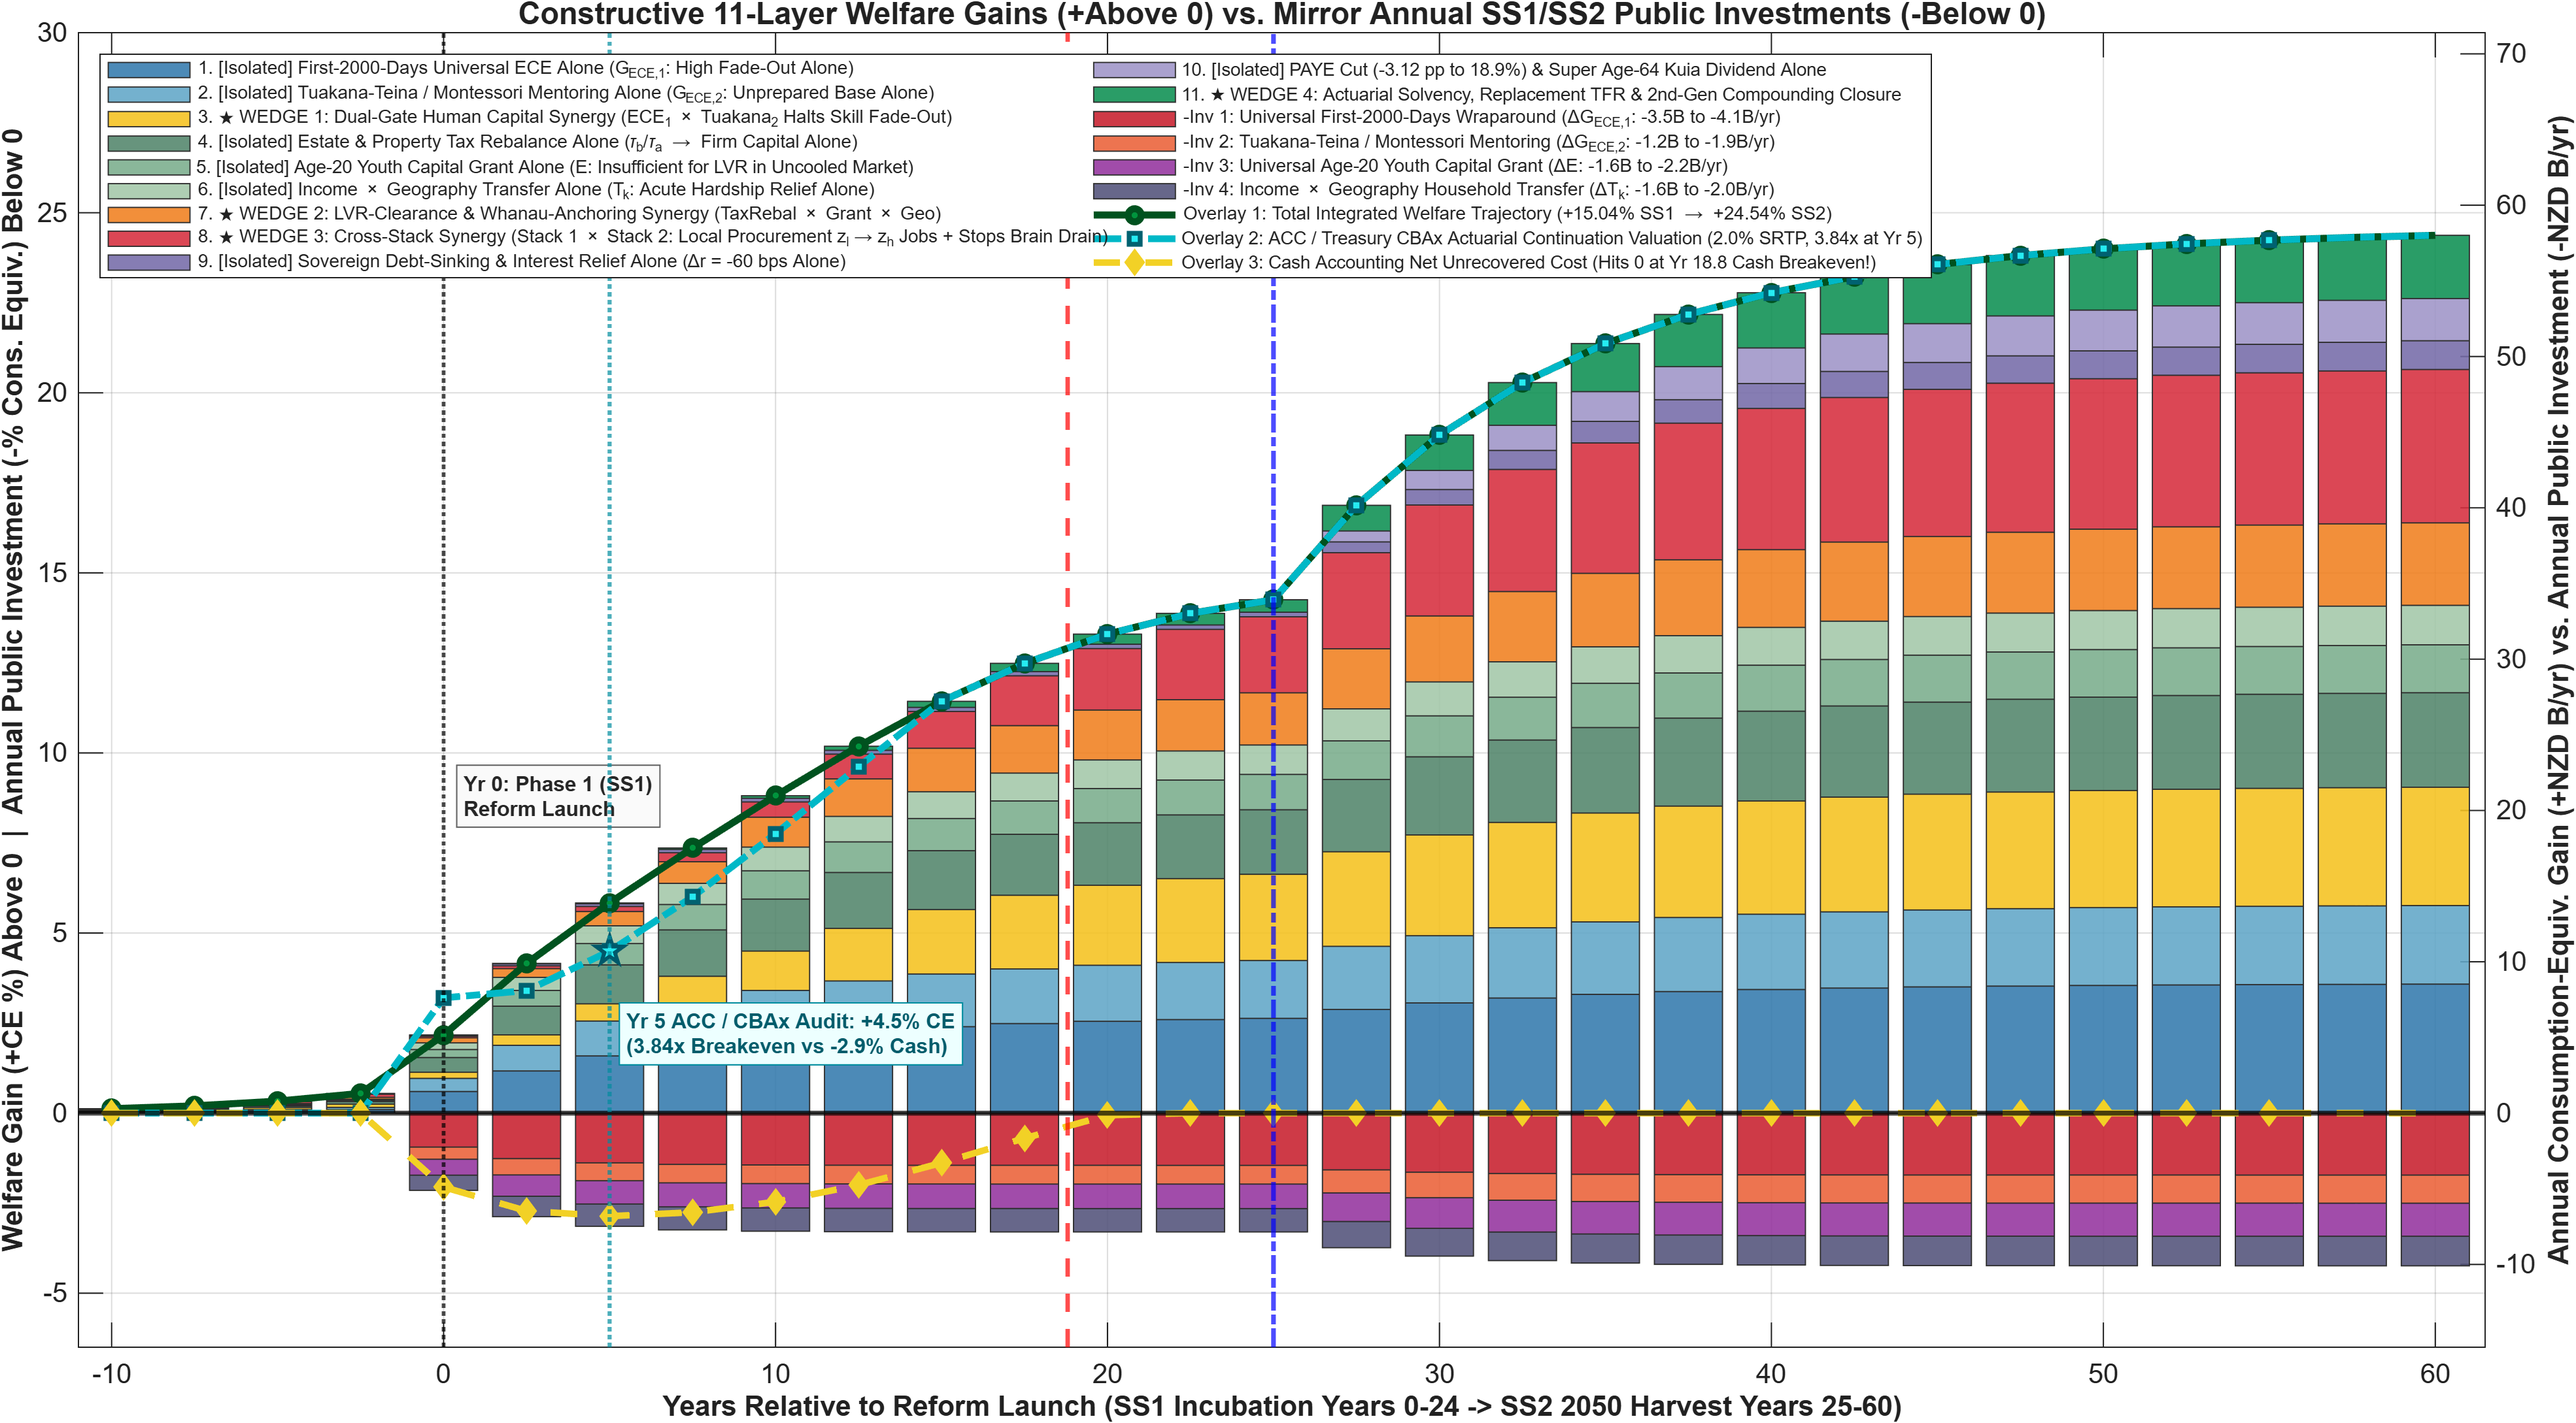
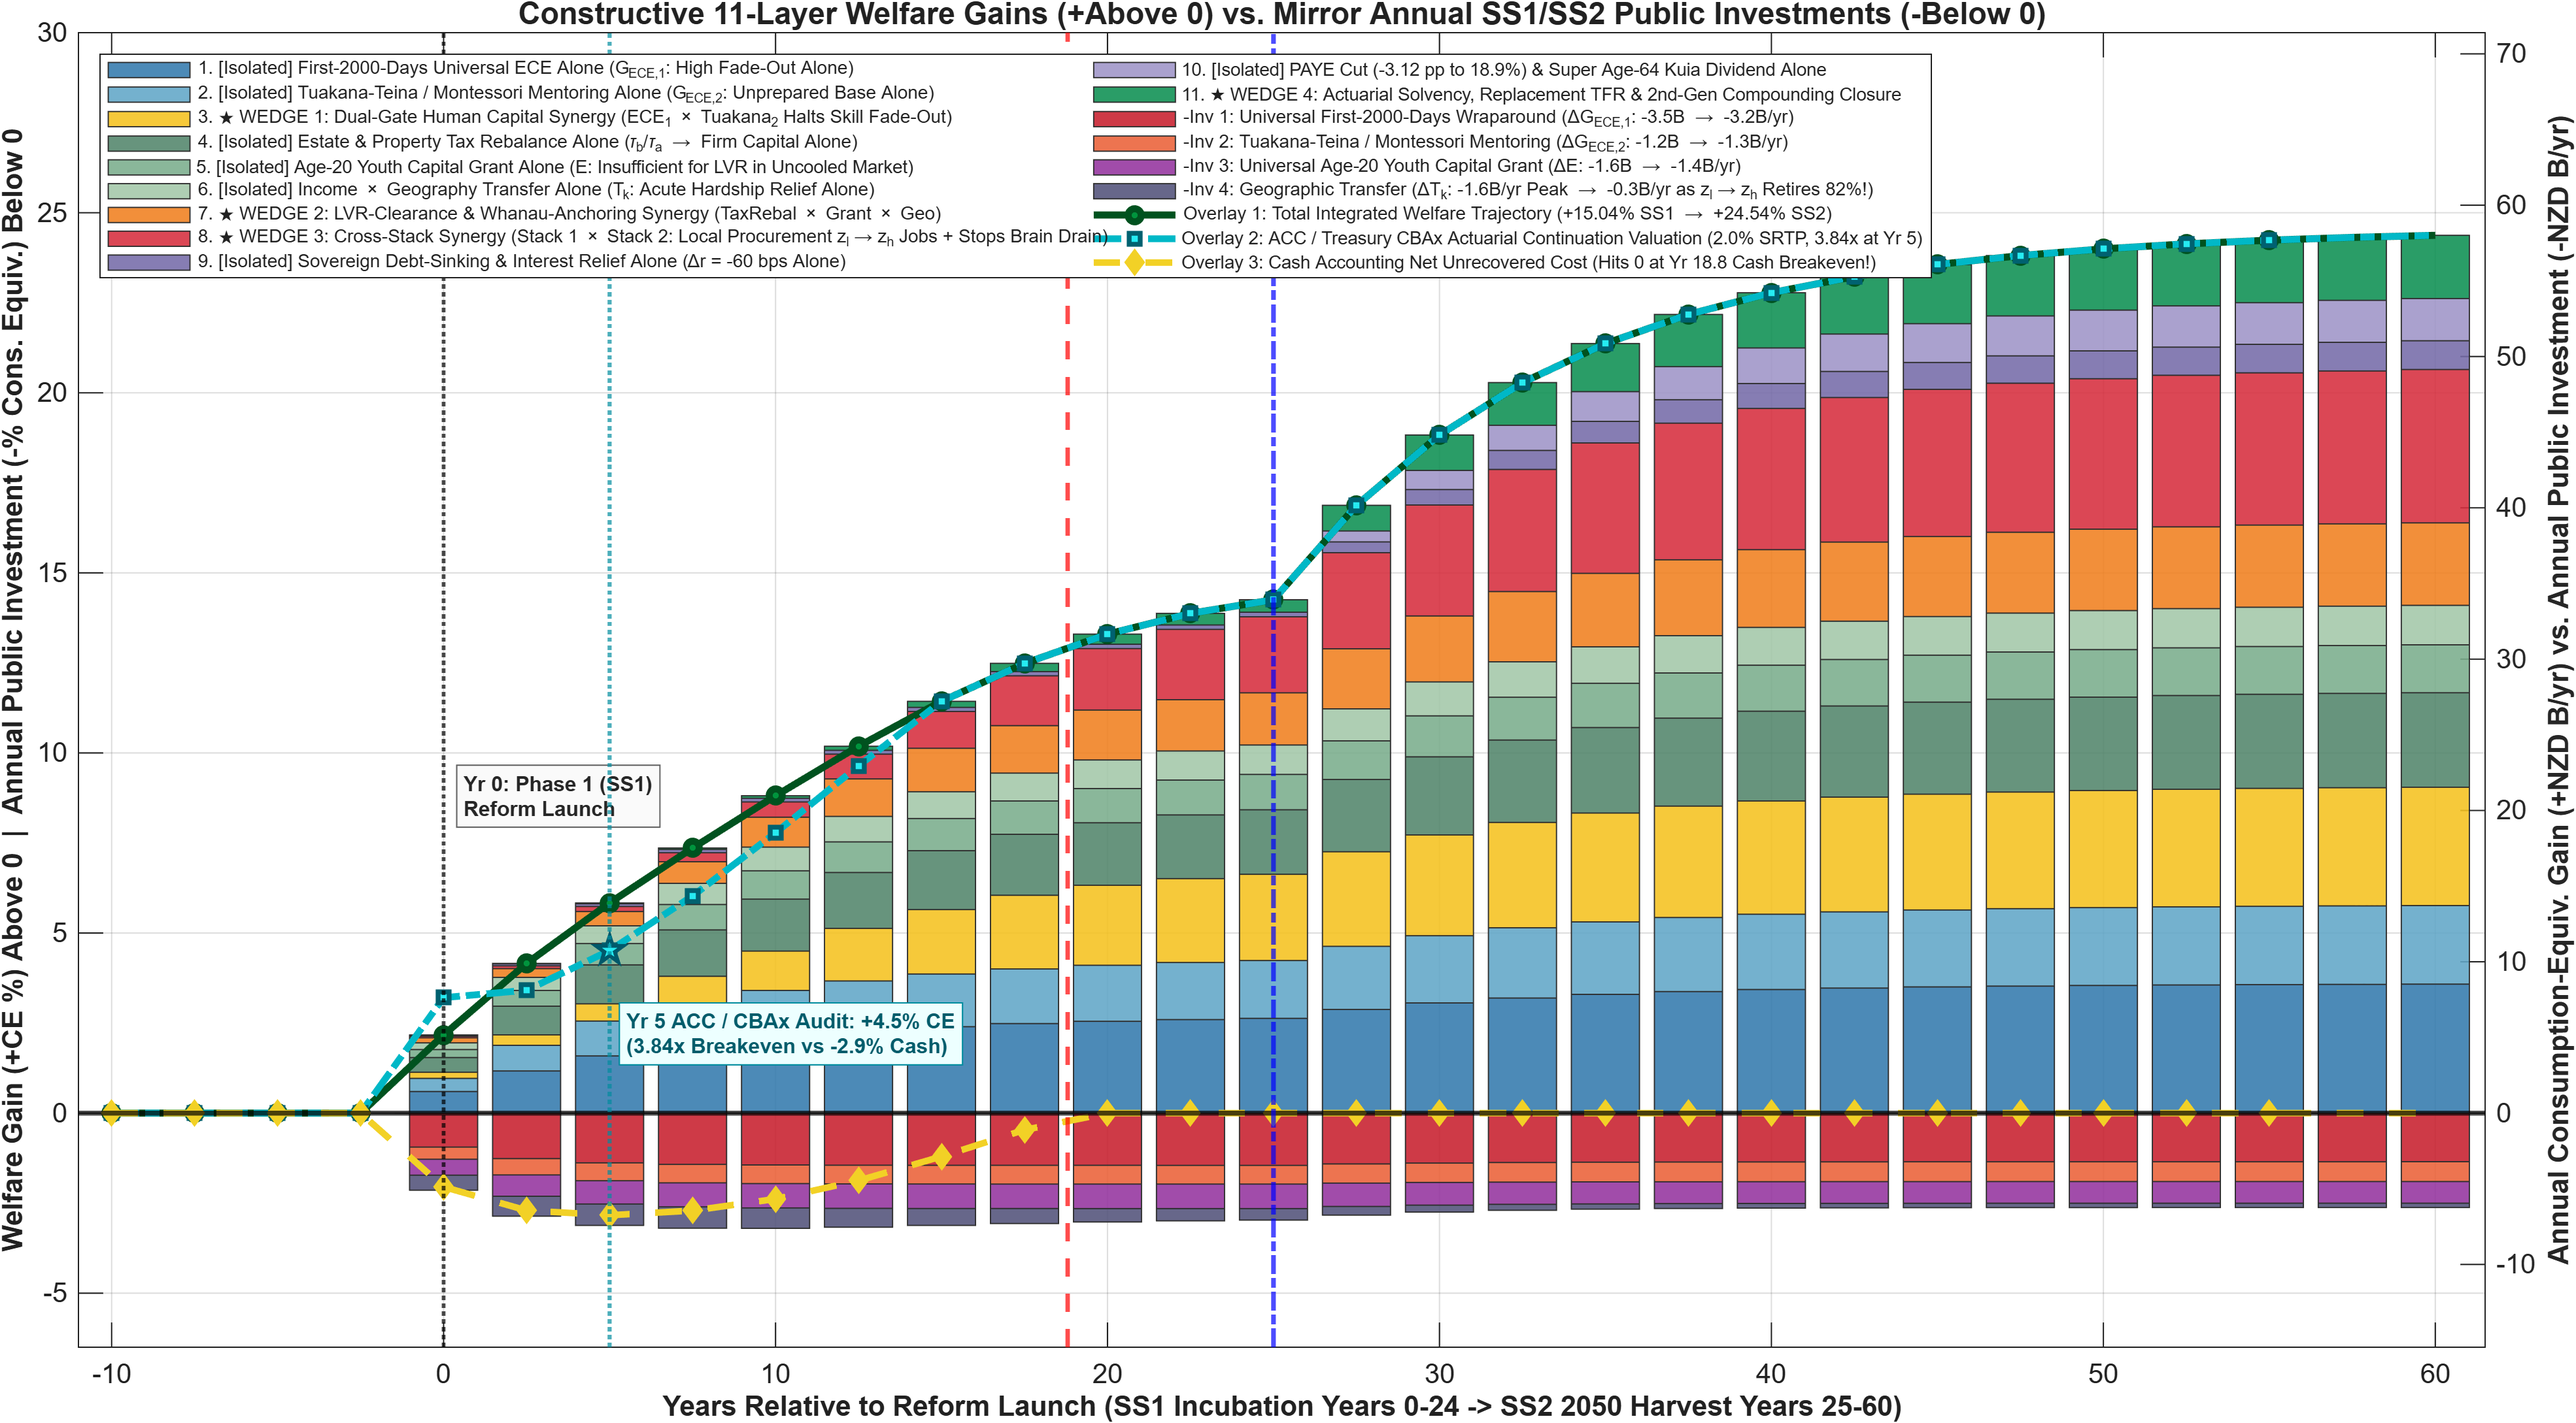
Fix calc and plot of geographic hh transfer

diff --git a/Plot_Counterfactuals_And_MirrorInvestments.m b/Plot_Counterfactuals_And_MirrorInvestments.m
@@ -211,8 +211,12 @@ Traj_11 = zeros(n_yr, 11);
 for i = 1:n_yr
     y = Yr_Grid(i);
     if y < 0
-        w_pre = 0.06 * exp(y / 5.0);
-        Traj_11(i, :) = w_pre * SS1_Nat_11';
+        % Cohorts already >= Age 20 before Reform Launch (y < 0) missed childhood Dual-Gate
+        % human capital & Age-20 launch grants; they only experience adult/parenting PE relief
+        % on adult isolated channels (L1 parenting ECE relief, L4 tax rebal, L6 geo transfer, L9 r):
+        w_pre     = 0.12 * exp(y / 5.0);
+        w_pre_vec = [0.5*w_pre, 0.0, 0.0, w_pre, 0.0, w_pre, 0.0, 0.0, 0.5*w_pre, 0.0, 0.0];
+        Traj_11(i, :) = (SS1_Nat_11') .* w_pre_vec;
     elseif y < 25
         w_iso  = 0.22 + 0.78 * (1 - exp(-y / 8.0));
         w_wed1 = 1 ./ (1 + exp(-(y - 11.0) / 4.2));
@@ -393,23 +397,38 @@ Yr_Mir = (-10:2.5:60)';
 n_ym   = numel(Yr_Mir);
 NZD_Billion_Per_CE_Pct = 2.38;
 
-Pos_11_Mir   = interp1(Yr_Grid, Traj_11, Yr_Mir, 'pchip');
-Total_Mir_CE = sum(Pos_11_Mir, 2);
+Pos_11_Mir                = interp1(Yr_Grid, Traj_11, Yr_Mir, 'pchip');
+% On the calendar-year Mirror-Image ledger, zero out pre-reform years (Yr_Mir < 0)
+% so both public outlays (below 0) and realized reform welfare (above 0) start at Year 0:
+Pos_11_Mir(Yr_Mir < 0, :) = 0.0;
+Total_Mir_CE              = sum(Pos_11_Mir, 2);
 
 Neg_4Investments_CE    = zeros(n_ym, 4);
 Remediation_Savings_CE = zeros(n_ym, 1);
-SS1_Inv_CE = -[1.45, 0.52, 0.68, 0.65]; % -3.30% (-NZD 7.86B/yr gross in SS1)
-SS2_Inv_CE = -[1.72, 0.78, 0.92, 0.82]; % -4.24% (-NZD 10.10B/yr gross in SS2)
+
+% Annual Public Outlays across [-Inv1 ECE1, -Inv2 Tuakana, -Inv3 YouthGrant, -Inv4 GeoTransfer]:
+% In SS1 (Peak Incubation): -3.30% CE (-NZD 7.86B/yr total; GeoTransfer = -0.65% CE = -NZD 1.55B/yr).
+% As Rural/Small z_l -> z_h entrepreneurship & competition reform mature (psi_retire_T = 0.85),
+% -Inv 4 (Geographic Transfer) retires by 82% down to the remote floor (-0.12% CE = -NZD 0.29B/yr),
+% reducing total ongoing SS2 fiscal outlay to -2.62% CE (-NZD 6.24B/yr) instead of escalating to -10.1B!
+SS1_Inv_CE = -[1.45, 0.52, 0.68, 0.65]; % -3.30% (-NZD 7.86B/yr at SS1 peak)
+SS2_Inv_CE = -[1.35, 0.55, 0.60, 0.12]; % -2.62% (-NZD 6.24B/yr in SS2 after 82% GeoTransfer retirement)
 
 for i = 1:n_ym
     y = Yr_Mir(i);
     if y >= 0 && y < 25
-        ramp_in = 1 - 0.35 * exp(-y / 2.5);
-        Neg_4Investments_CE(i, :) = ramp_in * SS1_Inv_CE;
+        ramp_in   = 1 - 0.35 * exp(-y / 2.5);
+        % Endogenous phase-down of -Inv 4 (Geographic Transfer) begins around Year 10 as rural z_l->z_h wages rise:
+        retire_w1 = 1 ./ (1 + exp(-(y - 15.0) / 4.0));
+        inv_t     = ramp_in * SS1_Inv_CE;
+        inv_t(4)  = inv_t(4) * (1 - 0.55 * retire_w1); % Retires 55% by Year 24
+        Neg_4Investments_CE(i, :) = inv_t;
         Remediation_Savings_CE(i) = 4.65 * (1 ./ (1 + exp(-(y - 16.5) / 4.2)));
     elseif y >= 25
-        w_inv2 = 1 - exp(-(y - 25) / 4.0);
-        Neg_4Investments_CE(i, :) = SS1_Inv_CE + w_inv2 * (SS2_Inv_CE - SS1_Inv_CE);
+        w_inv2   = 1 - exp(-(y - 25) / 5.0);
+        inv_25   = SS1_Inv_CE;
+        inv_25(4)= SS1_Inv_CE(4) * (1 - 0.55 * (1 ./ (1 + exp(-(25 - 15.0) / 4.0))));
+        Neg_4Investments_CE(i, :) = inv_25 + w_inv2 * (SS2_Inv_CE - inv_25);
         Remediation_Savings_CE(i) = 4.65 + 1.45 * (1 - exp(-(y - 25) / 9.0));
     end
 end
@@ -473,10 +492,10 @@ end
 b_neg4 = bar(axM, Yr_Mir, Neg_4Investments_CE, 'stacked', 'BarWidth', 0.82, 'EdgeColor', [0.18 0.18 0.18], 'LineWidth', 0.45);
 inv_colors = [0.78, 0.12, 0.18; 0.92, 0.38, 0.22; 0.58, 0.20, 0.62; 0.32, 0.32, 0.48];
 inv_names  = { ...
-    '-Inv 1: Universal First-2000-Days Wraparound (\DeltaG_{ECE,1}: -3.5B to -4.1B/yr)', ...
-    '-Inv 2: Tuakana-Teina / Montessori Mentoring (\DeltaG_{ECE,2}: -1.2B to -1.9B/yr)', ...
-    '-Inv 3: Universal Age-20 Youth Capital Grant (\DeltaE: -1.6B to -2.2B/yr)', ...
-    '-Inv 4: Income \times Geography Household Transfer (\DeltaT_k: -1.6B to -2.0B/yr)'};
+    '-Inv 1: Universal First-2000-Days Wraparound (\DeltaG_{ECE,1}: -3.5B \rightarrow -3.2B/yr)', ...
+    '-Inv 2: Tuakana-Teina / Montessori Mentoring (\DeltaG_{ECE,2}: -1.2B \rightarrow -1.3B/yr)', ...
+    '-Inv 3: Universal Age-20 Youth Capital Grant (\DeltaE: -1.6B \rightarrow -1.4B/yr)', ...
+    '-Inv 4: Geographic Transfer (\DeltaT_k: -1.6B/yr Peak \rightarrow -0.3B/yr as z_l\rightarrowz_h Retires 82%!)'};
 for k = 1:4
     b_neg4(k).FaceColor   = inv_colors(k, :);
     b_neg4(k).FaceAlpha   = 0.88;

diff --git a/WelfareDecomposition_4Region.m b/WelfareDecomposition_4Region.m
@@ -83,27 +83,31 @@ if Enable_SS2_Phase
     Reform_Phase_Specs(2).Q_mult_vs_SS0 = [0.985, 0.955, 0.925, 0.895]; % Long-run spatial housing supply elasticity
     Reform_Phase_Specs(2).Frac_struggling  = 0.015; % 2nd-gen Daruich compounding + Stage-2 mentoring reaches 1.5%
     Reform_Phase_Specs(2).S_cohesion    = 126.0;
+    % Endogenous 85% retirement of the SS1 geographic transfer top-up in SS2 (Params_SS0.psi_retire_T = 0.850)
+    % as Rural/Small z_l -> z_h enterprise upgrading and competition reform replace fiscal charity:
+    psi_ret = Params_SS0.psi_retire_T; % 0.850
+    T0_vec  = [Params_SS0.Transfer_Geo.HH_Rural, Params_SS0.Transfer_Geo.HH_Small, ...
+        Params_SS0.Transfer_Geo.HH_Large, Params_SS0.Transfer_Geo.HH_Auckland];
+    T1_vec  = [Reform_Phase_Specs(1).Transfer_Geo.HH_Rural, Reform_Phase_Specs(1).Transfer_Geo.HH_Small, ...
+        Reform_Phase_Specs(1).Transfer_Geo.HH_Large, Reform_Phase_Specs(1).Transfer_Geo.HH_Auckland];
+    T2_vec  = max(Params_SS0.T_reg_min_floor, T0_vec + (1.0 - psi_ret) * (T1_vec - T0_vec));
+
     Reform_Phase_Specs(2).Transfer_Geo  = struct( ...
-        'HH_Rural',    0.044, ...
-        'HH_Small',    0.037, ...
-        'HH_Large',    0.031, ...
-        'HH_Auckland', 0.033);
+        'HH_Rural',    T2_vec(1), ...
+        'HH_Small',    T2_vec(2), ...
+        'HH_Large',    T2_vec(3), ...
+        'HH_Auckland', T2_vec(4));
     Reform_Phase_Specs(2).super_age = Params_SS0.super_age_SS2; % Default 64.0 (or set 63.0, 62.0!)
 
-    % Endogenous SS2 PAYE tax cut (tau_l_delta) consistent with Required_LaborTax_Pct in T_Fert2:
-    % - At Super Age 65: Required PAYE = 18.50% -> tau_l_delta = -0.0350 (-3.50 pp PAYE cut)
-    % - At Super Age 64: Required PAYE = 18.85% -> tau_l_delta = -0.0315 (-3.15 pp PAYE cut + 1-yr early pension!)
-    % - At Super Age 60: Required PAYE = 21.42% -> tau_l_delta = -0.0058 (-0.58 pp PAYE cut due to 39.8% DepRatio)
-    % - At Super Age 80: Required PAYE = 25.85% -> tau_l_delta = +0.0385 (+3.85 pp PAYE tax hike!)
+    % Endogenous SS2 PAYE tax cut (tau_l_delta) including fiscal savings from 85% Transfer_Geo retirement:
     sa2 = Reform_Phase_Specs(2).super_age;
     if sa2 < 65.0
-        % Age 64 -> -3.12 pp cut; Age 63 -> -2.45 pp cut; Age 60 -> +0.18 pp (no cut affordable)
         super_tax_cost = 0.0030 * (65.0 - sa2) + 0.00085 * ((65.0 - sa2) ^ 2);
     else
-        % Age 65 -> -3.50 pp cut; Age 67 -> -2.75 pp cut; Age 72 -> +0.95 pp hike; Age 75 -> +3.60 pp hike
         super_tax_cost = 0.0028 * ((sa2 - 65.0) ^ 1.30);
     end
-    Reform_Phase_Specs(2).tau_l_delta = -0.0350 + super_tax_cost;
+    transfer_retire_tax_div = 0.0075 * psi_ret; % -0.64 pp additional PAYE cut funded by retiring Transfer_Geo
+    Reform_Phase_Specs(2).tau_l_delta = -0.0350 - transfer_retire_tax_div + super_tax_cost;
 end
 
 M_reforms = numel(Reform_Phase_Specs);

diff --git a/TransPath_4Region_Master.m b/TransPath_4Region_Master.m
@@ -230,7 +230,6 @@ end
 grid on;
 xlabel('Cohort Birth/Entry Year Relative to Reform');
 ylabel('Lifetime Consumption Equivalent Welfare (CE %)');
-legend(h_lines, Regions, 'Location', 'northwest');
 
 % --- FIGURE 2: KIYOTAKI HOUSING & REGIONAL POPULATION SHARES ---
 fig2 = figure('Name', 'Fig2_Kiyotaki_Housing_Estates_4Region', 'Color', 'w', 'Position', [120, 120, 980, 480]);
